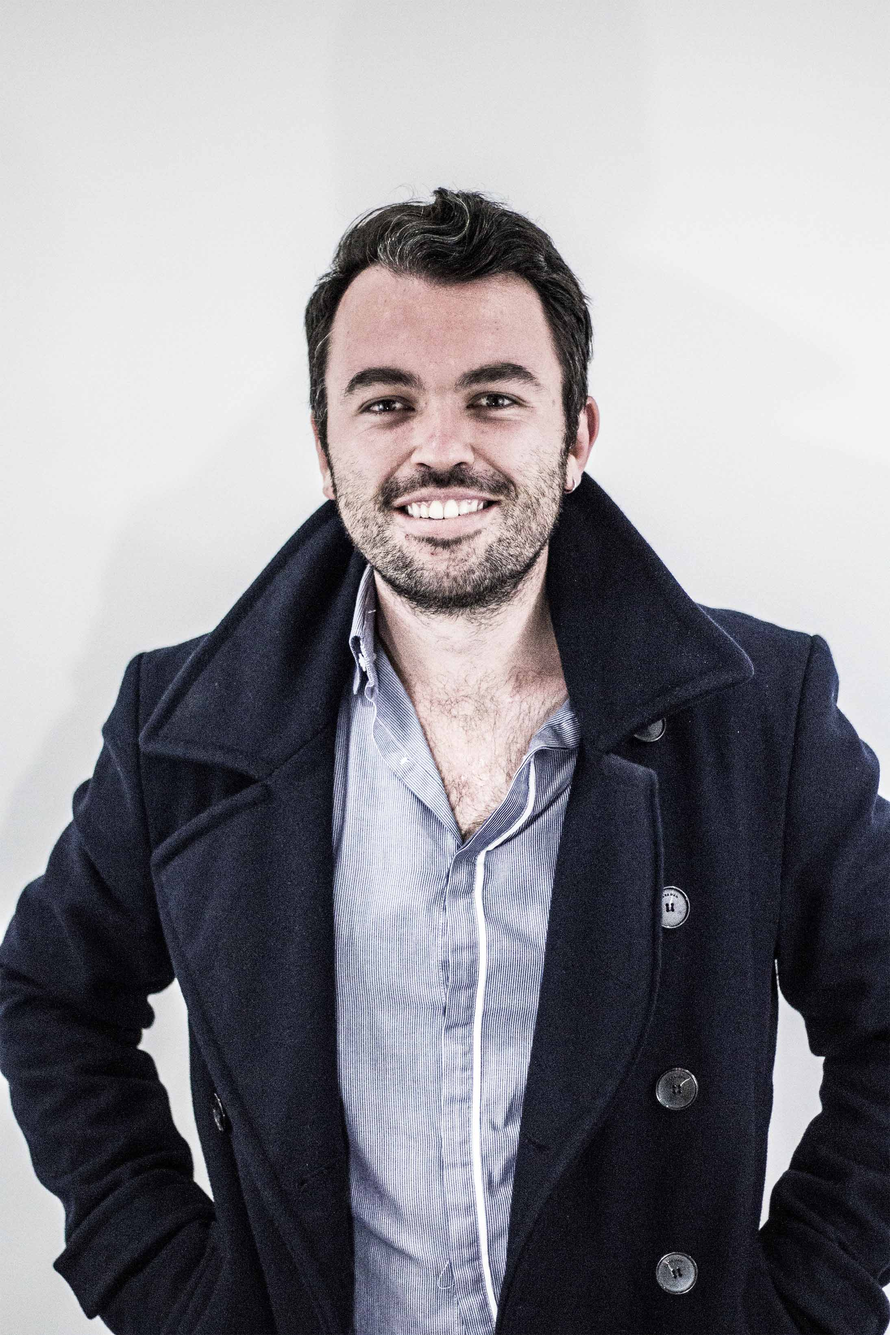
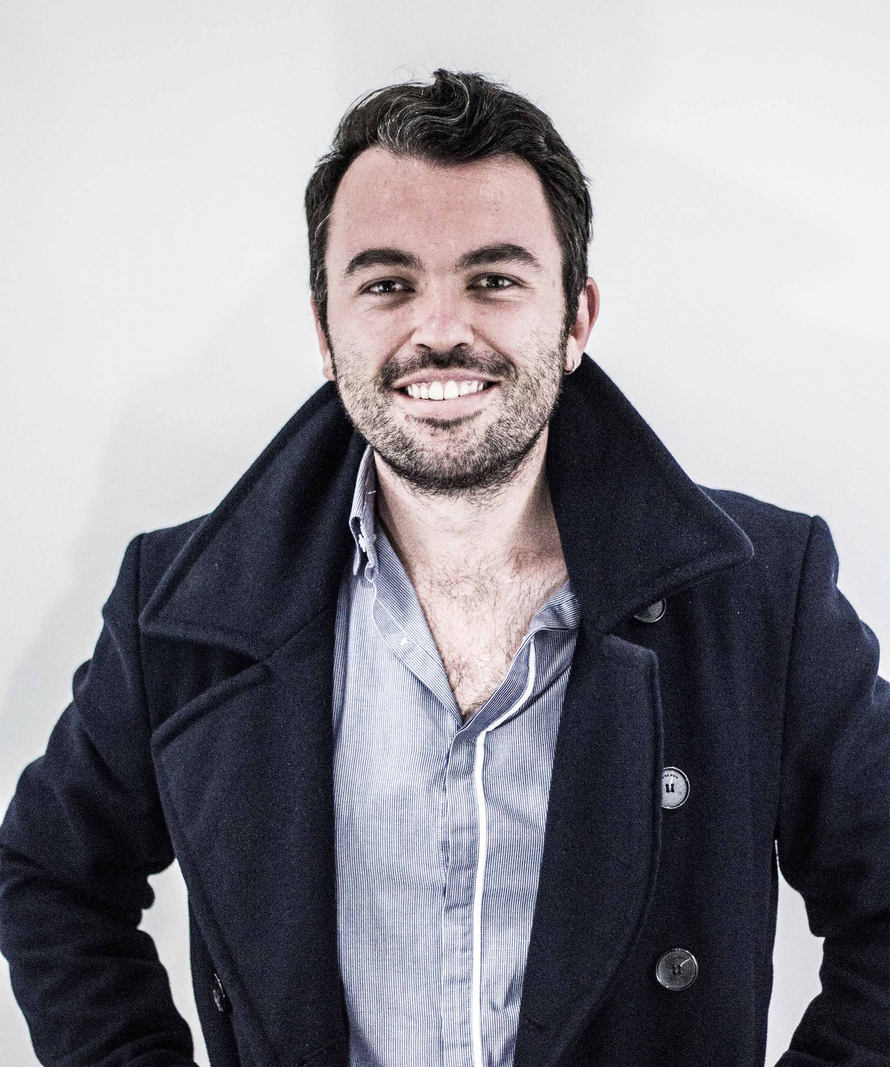
v1.0.2 solucion bugs

diff --git a/src/app/about/about.component.html b/src/app/about/about.component.html
@@ -1,9 +1,9 @@
 <div id="backgroundAbout">
   <div id="selectorCategoriasAbout"  #containerSelector>
-    <h2 class="categorias" [ngClass]="{'seletedCategoria': selectedSection == 'QUE'}" (click)="asignarInfo('QUE')" [fittext] [activateOnResize]="true" [container]="containerSelector" [minFontSize]="5" [compression]="1.8">QUE?</h2>
-    <h2 class="categorias" [ngClass]="{'seletedCategoria': selectedSection == 'QUIEN'}" (mouseenter)="onNextSearchPosition(0)" (click)="asignarInfo('QUIEN')" [fittext] [activateOnResize]="true" [container]="containerSelector" [minFontSize]="5" [compression]="1.8">QUIEN?</h2>
-    <h2 class="categorias" [ngClass]="{'seletedCategoria': selectedSection == 'DONDE'}" (mouseenter)="onNextSearchPosition(0)" (click)="asignarInfo('DONDE')"  [fittext] [activateOnResize]="true" [container]="containerSelector" [minFontSize]="5" [compression]="1.8">DONDE?</h2>
-    <h2 class="categorias" [ngClass]="{'seletedCategoria': selectedSection == 'CUANDO'}" (mouseenter)="onNextSearchPosition(calcularFinalScroll())" (click)="asignarInfo('CUANDO')" [fittext] [activateOnResize]="true" [container]="containerSelector" [minFontSize]="5" [compression]="1.8">CUANDO?</h2>
+    <h2 class="categorias" [ngClass]="{'seletedCategoria': selectedSection == 'QUE'}" (click)="asignarInfo('QUE')" [fittext] [activateOnResize]="true" [container]="containerSelector" [minFontSize]="5" [compression]="1.8">QUÉ?</h2>
+    <h2 class="categorias" [ngClass]="{'seletedCategoria': selectedSection == 'QUIEN'}" (mouseenter)="onNextSearchPosition(0)" (click)="asignarInfo('QUIEN')" [fittext] [activateOnResize]="true" [container]="containerSelector" [minFontSize]="5" [compression]="1.8">QUIÉN?</h2>
+    <h2 class="categorias" [ngClass]="{'seletedCategoria': selectedSection == 'DONDE'}" (mouseenter)="onNextSearchPosition(0)" (click)="asignarInfo('DONDE')"  [fittext] [activateOnResize]="true" [container]="containerSelector" [minFontSize]="5" [compression]="1.8">DÓNDE?</h2>
+    <h2 class="categorias" [ngClass]="{'seletedCategoria': selectedSection == 'CUANDO'}" (mouseenter)="onNextSearchPosition(calcularFinalScroll())" (click)="asignarInfo('CUANDO')" [fittext] [activateOnResize]="true" [container]="containerSelector" [minFontSize]="5" [compression]="1.8">CÚANDO?</h2>
     <h2 class="categorias" [ngClass]="{'seletedCategoria': selectedSection == 'CONTACTO'}" (click)="asignarInfo('CONTACTO')" [fittext] [activateOnResize]="true" [container]="containerSelector" [minFontSize]="5" [compression]="1.8">CONTACTO</h2>
     </div>
 

diff --git a/src/app/ponentes/ponentes.component.ts b/src/app/ponentes/ponentes.component.ts
@@ -39,6 +39,7 @@ export class PonentesComponent implements OnInit, OnDestroy {
   cargo: string;
   hrefWeb: string;
   urlFoto: string;
+  imgposition: string;
 //  identidadData: AngularFireObject<any[]>;
   desvanecer = 'nodesvanecer';
   datos: string[]= [];
@@ -103,6 +104,11 @@ export class PonentesComponent implements OnInit, OnDestroy {
       this.hrefWeb = this.ponentesData[0].redes.paginaPersonalAcortada;
       this.urlWeb = this.ponentesData[0].redes.pagina_personal;
       this.urlFoto = this.ponentesData[0].src_image;
+      if (this.ponentesData[0].imagePosition) {
+        this.imgposition = this.ponentesData[0].imagePosition;
+      } else {
+        this.imgposition = 'top';
+      }
     });
 
 
@@ -118,7 +124,7 @@ export class PonentesComponent implements OnInit, OnDestroy {
 
   public asignarInfo(infotito: string, nombri: string, slogitan: string, websito: string,
                      behancito: string, feisuri: string, palomaNoOp: string, linkin: string, cargin: string,
-                     hrefiso: string, urlfotin: string) {
+                     hrefiso: string, urlfotin: string, position: string) {
     this.datos.push(infotito);
     this.datos.push(nombri);
     this.datos.push(slogitan);
@@ -130,6 +136,7 @@ export class PonentesComponent implements OnInit, OnDestroy {
     this.datos.push(cargin);
     this.datos.push(hrefiso);
     this.datos.push(urlfotin);
+    this.datos.push(position);
     this.desvanecer = 'desvanecer';
 
   }
@@ -149,6 +156,11 @@ export class PonentesComponent implements OnInit, OnDestroy {
       this.cargo = this.datos[8];
       this.hrefWeb = this.datos[9];
       this.urlFoto = this.datos[10];
+      if (this.datos[11]) {
+        this.imgposition = this.datos[11];
+      } else {
+        this.imgposition = 'top';
+      }
       this.desvanecer = 'nodesvanecer';
       this.datos = [];
     }

diff --git a/src/assets/identidad/2017-2/sketches/index/backgroundSketch.js b/src/assets/identidad/2017-2/sketches/index/backgroundSketch.js
@@ -18,7 +18,6 @@ const sketch = function (p) {
   //  canvas.parent('sketch-main');
  //   canvas.style('z-index', '-1');
     canvas.position(0, 0);
-    tamanin = p.displayWidth;
     p.background(14, 6, 51);
     createCubes();
   };
@@ -26,6 +25,8 @@ const sketch = function (p) {
 
   p.windowResized = function() {
     p.resizeCanvas(p.windowWidth, p.windowHeight);
+    tamanoooW = p.windowWidth;
+    tamanoooH = p.windowHeight;
   //  console.log("window",p.windowWidth,p.windowWidth);
     onresize();
   };
@@ -37,7 +38,7 @@ const sketch = function (p) {
   }
 
   function createCubes() {
-    const cantidad = tamanin / 150;
+    const cantidad = tamanoooW / 150;
     // imgCube = loadImage("assets/identidad/2017-1/sketches/index/cube_fondo.gif");  // Load the image
     for (let i = 0; i < cantidad; i++) {
       cubes.push(new Cube(cubinoImg));
@@ -75,9 +76,9 @@ const sketch = function (p) {
 
 
     this.limites = function () {
-      if (this.pos.y < -this.tam) {
-        this.pos.y = p.windowHeight + this.tam;
-        this.pos.x = Math.random() * p.windowWidth;
+      if (this.pos.y < -50) {
+        this.pos.y = tamanoooH + this.tam;
+        this.pos.x = Math.random() * tamanoooW;
         this.reset();
       }
     };

diff --git a/src/app/ponentes/ponentes.component.html b/src/app/ponentes/ponentes.component.html
@@ -5,7 +5,7 @@
   </div>
   -->
 <div id="containerGeneralPonentes">
-  <div id="imgCubo" [style.background-image]="'url(' +urlFoto+ ')'">
+  <div id="imgCubo" [style.background-image]="'url(' +urlFoto+ ')'" [style.background-position]="imgposition">
   </div>
 
 
@@ -18,8 +18,9 @@
 
       <ul>
 
+
         <li *ngFor="let ponente of ponentesData"
-            (click)="asignarInfo(ponente.informacion, ponente.nombre, ponente.pais+' / '+ponente.ciudad, ponente.redes.pagina_personal, ponente.redes.behance, ponente.redes.facebook, ponente.redes.twitter, ponente.redes.linkedIn, ponente.cargo, ponente.redes.paginaPersonalAcortada, ponente.src_image)">
+            (click)="asignarInfo(ponente.informacion, ponente.nombre, ponente.pais+' / '+ponente.ciudad, ponente.redes.pagina_personal, ponente.redes.behance, ponente.redes.facebook, ponente.redes.twitter, ponente.redes.linkedIn, ponente.cargo, ponente.redes.paginaPersonalAcortada, ponente.src_image, ponente.imagePosition)">
           <a class="textoSeleccion" [ngClass]="{'activeSelect': nombre == ponente.nombre}" [fittext] [activateOnResize]="true" [container]="containerLi" [minFontSize]="5" [compression]="8">{{ponente.nombre }}</a>
         </li>
 

diff --git a/src/app/app.routes.ts b/src/app/app.routes.ts
@@ -9,9 +9,8 @@ import {GaleriaComponent} from './galeria/galeria.component';
 
 
 const appRoutes: Routes = [
-    {path: '', redirectTo: 'home', pathMatch: 'full' },
-    {path: 'home', component: HomeComponent, data: { state: 'home' }},
-    {path: 'ponentes', component: PonentesComponent, data: { state: 'ponentes' }},
+    {path: '', component: HomeComponent, pathMatch: 'full',  data: { state: 'home' }},
+    {path: 'ponentes', component: PonentesComponent, pathMatch: 'full', data: { state: 'ponentes' }},
     {path: 'agenda', component: AgendaComponent, data: { state: 'agenda' }},
     {path: 'about', component: AboutComponent, data: { state: 'about' }},
     {path: 'galeria', component: GaleriaComponent, data: { state: 'galeria' }}
